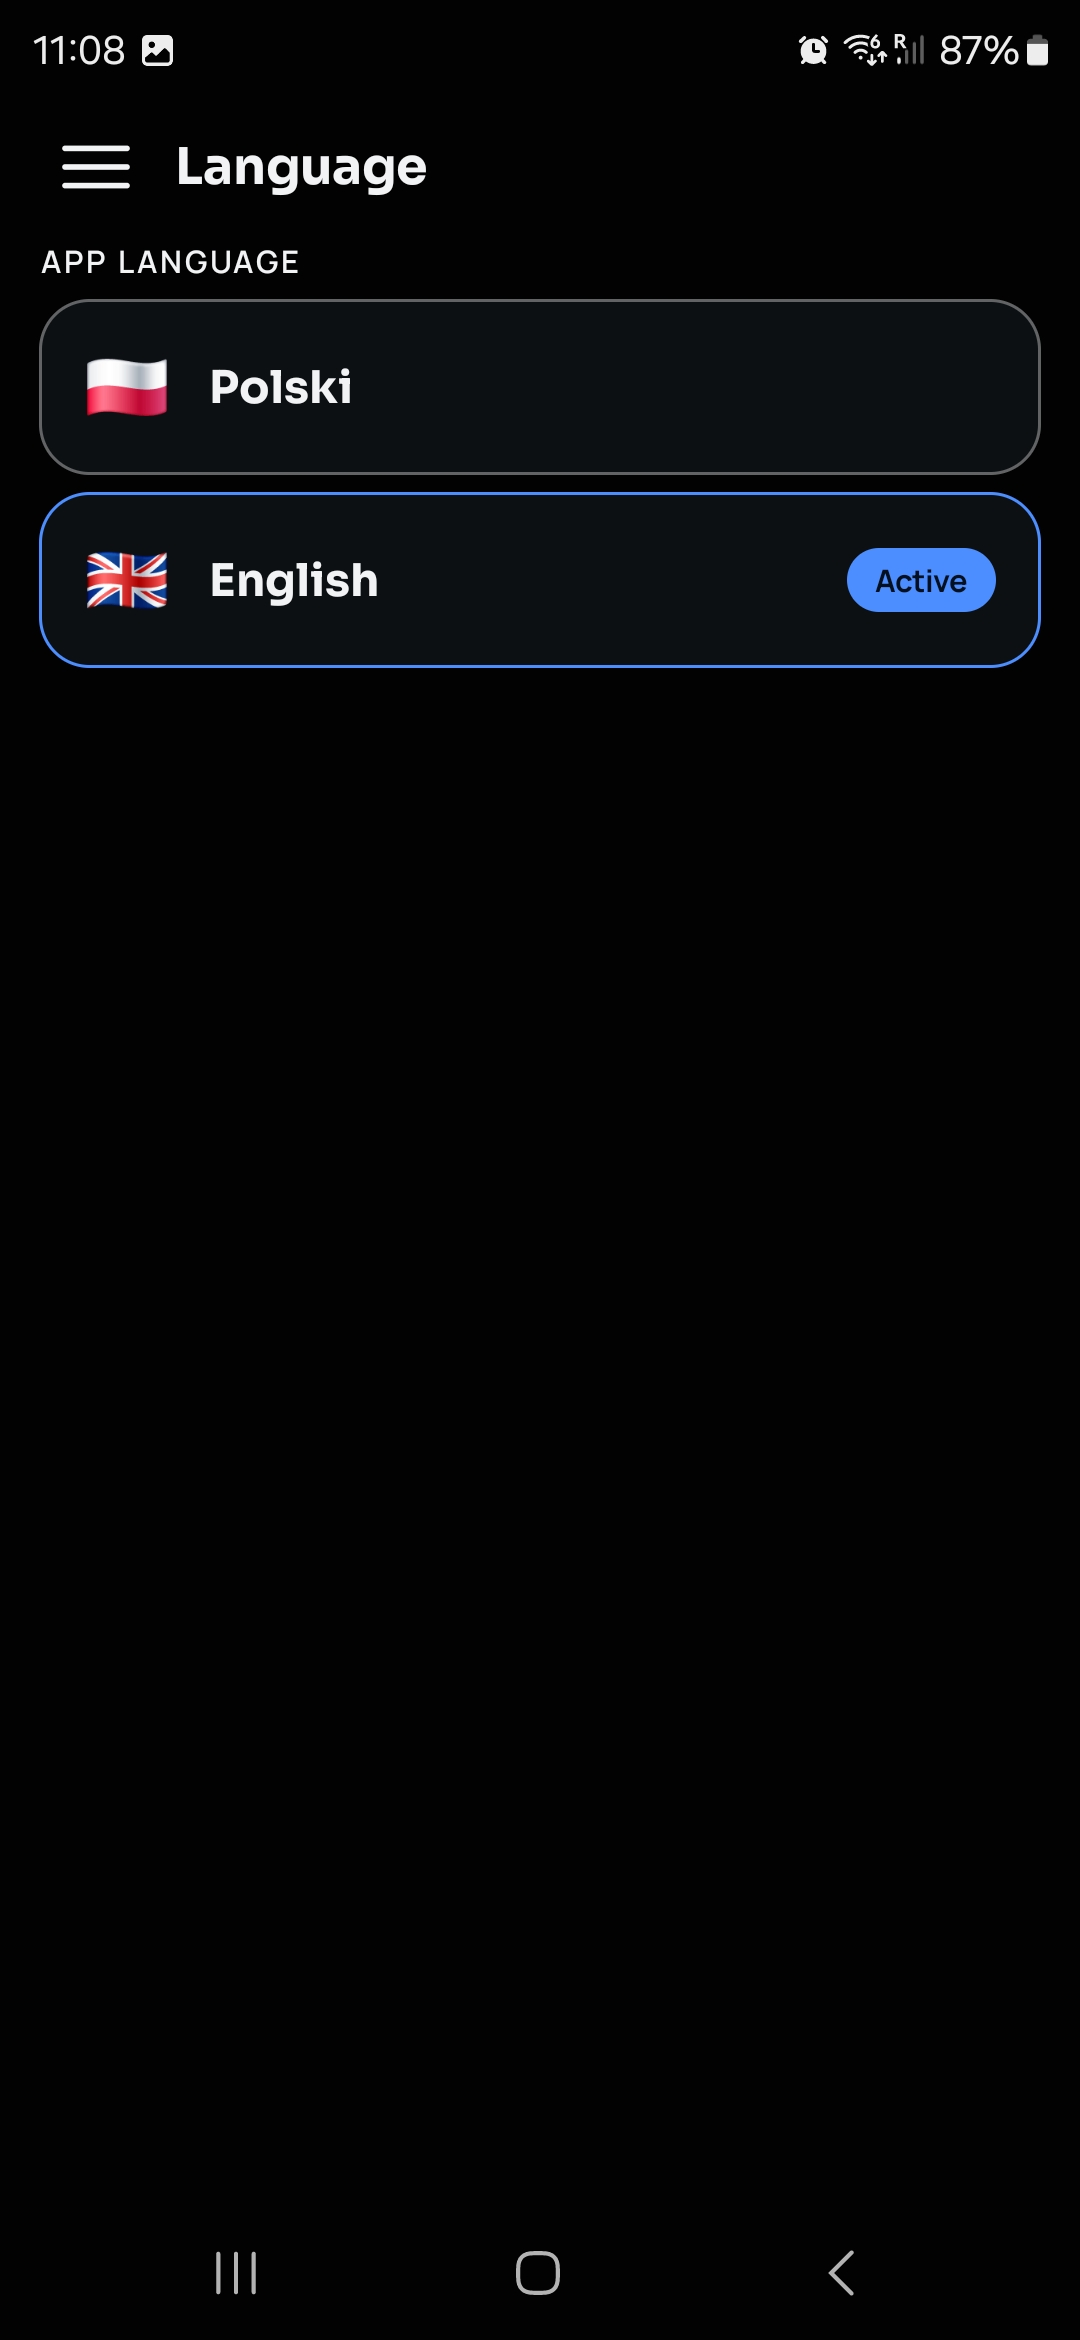
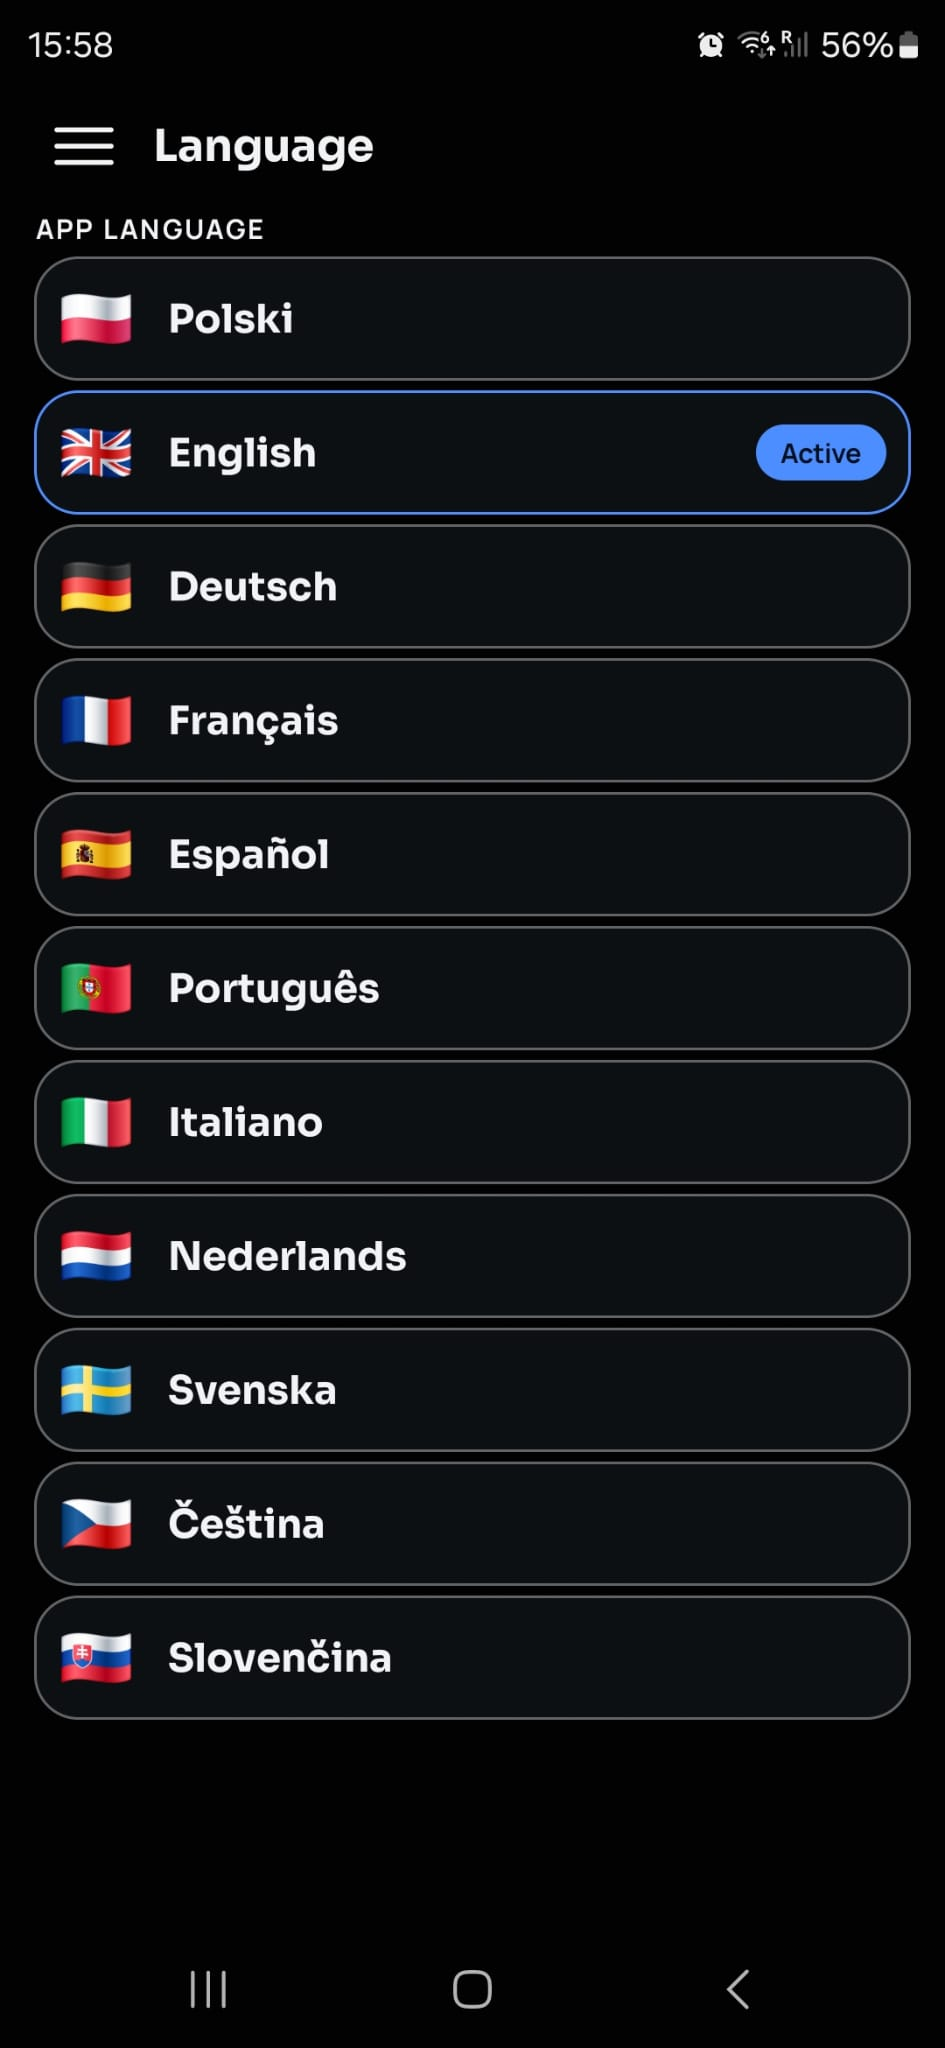
Update language screenshot and copy to reflect 11 supported languages

diff --git a/eggspeed/index.html b/eggspeed/index.html
@@ -541,7 +541,7 @@
     <div>
       <div class="eyebrow">Transparent by default</div>
       <h2>Speaks your language, upfront about everything else.</h2>
-      <p>English or Polish, switchable any time from the menu.</p>
+      <p>11 languages built in - Polish, English, German, French, Spanish, Portuguese, Italian, Dutch, Swedish, Czech and Slovak - switchable any time from the menu.</p>
       <p>The About tab always has the current Privacy Policy and Terms of Service, plus a direct link to report a bug or request a feature - read personally, every time.</p>
     </div>
     <div class="shot-row">
@@ -570,7 +570,7 @@
   <!-- FOOTNOTE -->
   <section class="footnote-wrap">
     <div class="footnote-pill">
-      <span>2 languages: EN &middot; PL</span>
+      <span>11 languages: PL &middot; EN &middot; DE &middot; FR &middot; ES &middot; PT &middot; IT &middot; NL &middot; SV &middot; CS &middot; SK</span>
       <span class="sep">|</span>
       <span>Android 8.0+</span>
       <span class="sep">|</span>
